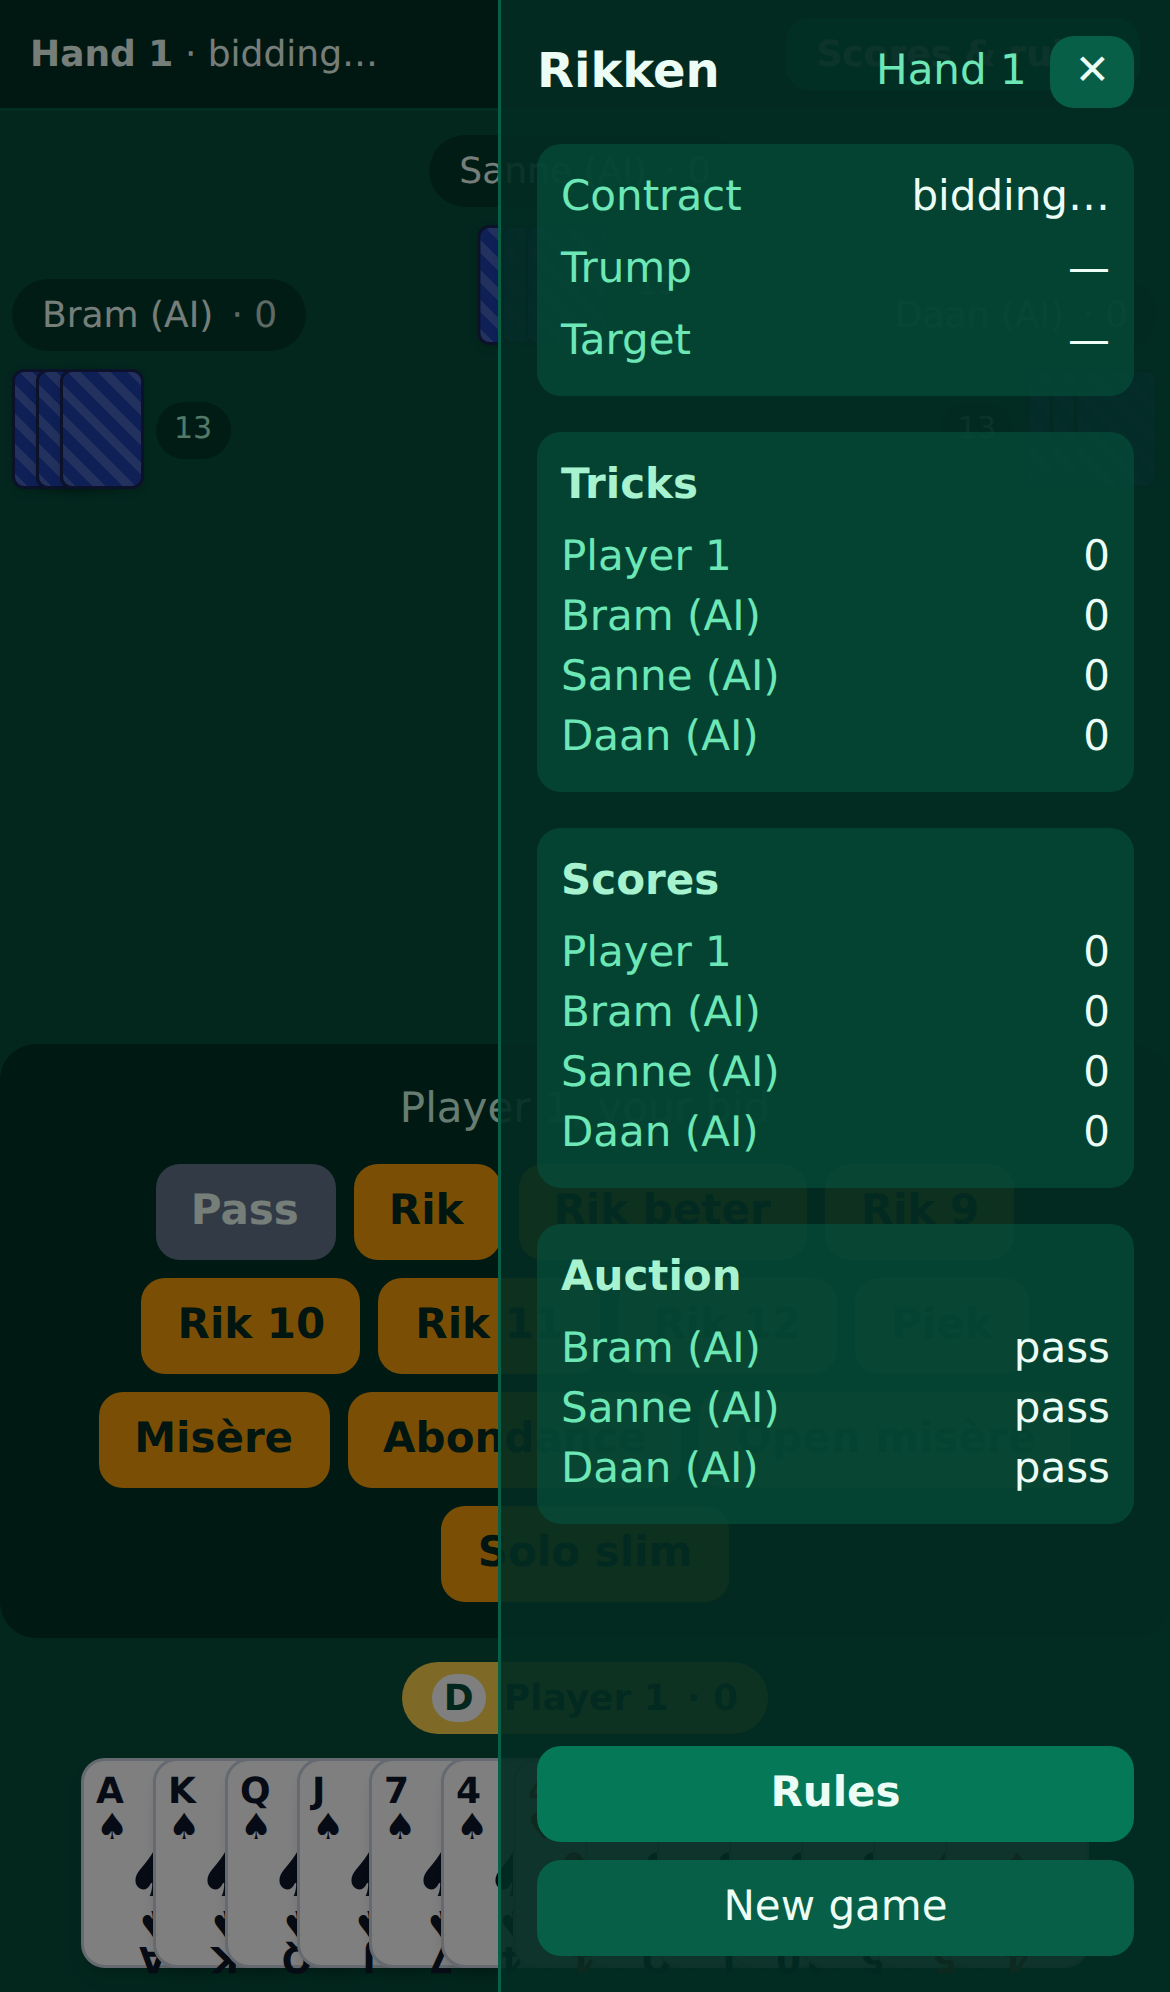
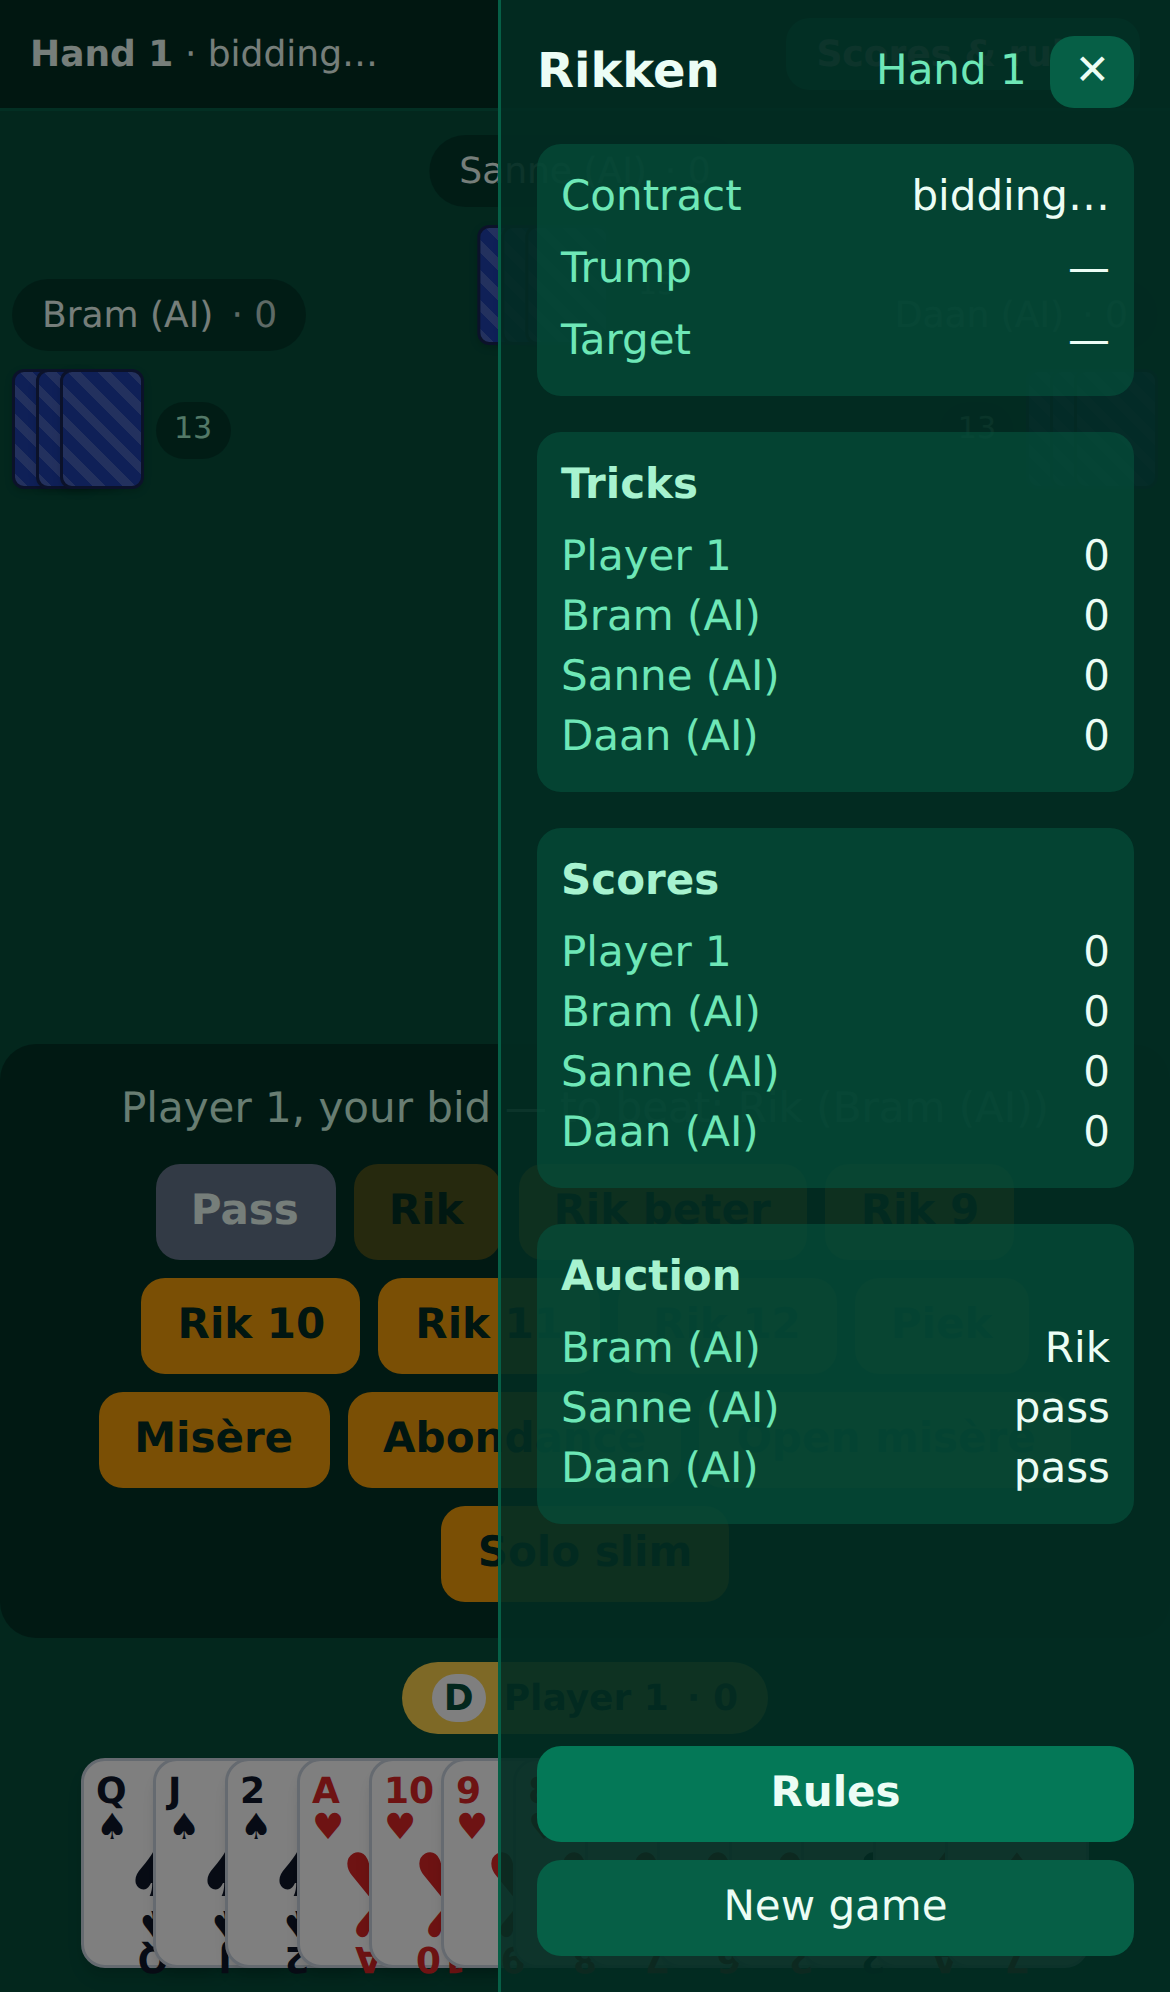
House rule: called card must appear on first play of its suit
While the partnership is hidden, the holder of the called card must
play it the first time its suit is played: following to a lead of that
suit, or leading that suit themselves, the card must be the called one.
Discards on other suits stay free (simplest reading). Enforced in
legalMoves so the UI greys everything else and the AI complies; applies
to the troela fourth ace too. Toggle: RULES.mustPlayCalledOnFirstLead.

Claude-Session: https://claude.ai/code/session_01Qz1h6BRuaHwxdz685EQKKB

diff --git a/Rikken.jsx b/Rikken.jsx
@@ -18,6 +18,12 @@ const RULES = {
   // suit 5.2 vs 4.9 and 7+ card suits 10% vs 4%. mode "uniform" restores the
   // pure Fisher-Yates shuffle; more riffles / maxChunk 1 = cleaner shuffling.
   shuffle: { mode: "realistic", riffles: 2, maxChunk: 3 },
+  // House rule: the first time the called card's suit is played, its holder
+  // must play the called card — following to a lead of that suit, or leading
+  // the suit themselves, the card must be the called one. (Discarding cards
+  // of that suit on another lead stays free — simplest reading.) Applies to
+  // the troela fourth ace too, since it works like a called card here.
+  mustPlayCalledOnFirstLead: true,
   troela: {
     target: 8,            // troela pair (or solo four-ace holder) needs 8 tricks
     trumpFromFirstLead: true, // trump is the suit of the very first card led
@@ -142,17 +148,32 @@ function legalBids(currentHighKey) {
 }
 
 // Follow suit if you can; otherwise anything (RULES.mustTrump toggles
-// compulsory trumping for variants — off in this ruleset).
-function legalMoves(hand, trick, trump) {
-  if (trick.length === 0) return hand.slice();
-  const led = trick[0].card.s;
-  const follow = hand.filter((c) => c.s === led);
-  if (follow.length) return follow;
-  if (RULES.mustTrump && trump) {
-    const trumps = hand.filter((c) => c.s === trump);
-    if (trumps.length) return trumps;
+// compulsory trumping for variants — off in this ruleset). `contract` is
+// optional and only used for the called-card house rule below.
+function legalMoves(hand, trick, trump, contract) {
+  let base;
+  if (trick.length === 0) base = hand.slice();
+  else {
+    const led = trick[0].card.s;
+    const follow = hand.filter((c) => c.s === led);
+    if (follow.length) base = follow;
+    else if (RULES.mustTrump && trump && hand.some((c) => c.s === trump))
+      base = hand.filter((c) => c.s === trump);
+    else base = hand.slice();
   }
-  return hand.slice();
+  // House rule (RULES.mustPlayCalledOnFirstLead): the first time the called
+  // suit is played, the holder must play the called card. No history needed:
+  // while the partnership is unrevealed that suit cannot have been led in an
+  // earlier trick — the obligation would already have extracted the card.
+  if (RULES.mustPlayCalledOnFirstLead && contract && contract.called && !contract.revealed &&
+      hand.some((c) => c.id === contract.called.id)) {
+    const cs = contract.called.s, cid = contract.called.id;
+    if (trick.length > 0 && trick[0].card.s === cs)
+      return base.filter((c) => c.id === cid); // must follow with the called card
+    if (trick.length === 0)
+      return base.filter((c) => c.s !== cs || c.id === cid); // a lead of that suit must be it
+  }
+  return base;
 }
 
 // Highest trump wins; otherwise highest card of the suit led.
@@ -321,7 +342,7 @@ function knownFriends(seat, game) {
 
 function aiChooseCard(seat, game) {
   const { hands, trick, trump, contract, playedIds, aiSkill } = game;
-  const legal = legalMoves(hands[seat], trick, trump);
+  const legal = legalMoves(hands[seat], trick, trump, contract);
   if (legal.length === 1) return legal[0];
   const rng = Math.random;
   if (aiSkill === "casual" && rng() < 0.15) // casual: occasional random card
@@ -506,7 +527,7 @@ function startPlay(g) {
 
 function playCard(g, seat, card) {
   if (g.phase !== "play" || g.turn !== seat) return g;
-  if (!legalMoves(g.hands[seat], g.trick, g.contract.trump).some((c) => c.id === card.id)) return g;
+  if (!legalMoves(g.hands[seat], g.trick, g.contract.trump, g.contract).some((c) => c.id === card.id)) return g;
   const hands = g.hands.map((h, i) => (i === seat ? h.filter((c) => c.id !== card.id) : h));
   const trick = [...g.trick, { seat, card }];
   const playedIds = new Set(g.playedIds);
@@ -697,7 +718,7 @@ function TrickArea({ g, baseSeat }) {
 }
 
 function Fan({ g, seat, active, onPlay, mobile }) {
-  const legal = active ? legalMoves(g.hands[seat], g.trick, g.contract ? g.contract.trump : null) : [];
+  const legal = active ? legalMoves(g.hands[seat], g.trick, g.contract ? g.contract.trump : null, g.contract) : [];
   const legalIds = new Set(legal.map((c) => c.id));
   const cards = g.hands[seat].map((c) => {
     const ok = active && legalIds.has(c.id);
@@ -973,6 +994,8 @@ function RulesModal({ onClose }) {
         holder is their secret partner (a king if they hold all three outside aces).
         Rik beter: rik with hearts as trump — the way to outbid a plain rik while still
         playing for 8 tricks; same partner call, same scoring.
+        House rule: the first time the called card's suit is played, its holder must play
+        the called card — whether following to that suit or leading it themselves.
         Piek: alone, no trump, exactly 1 trick. Misère: alone, no trump, 0 tricks.
         Abondance: alone, own trump, 9 tricks. Open misère: 0 tricks, hand faced after trick 1.
         Solo slim: alone, own trump, all 13.